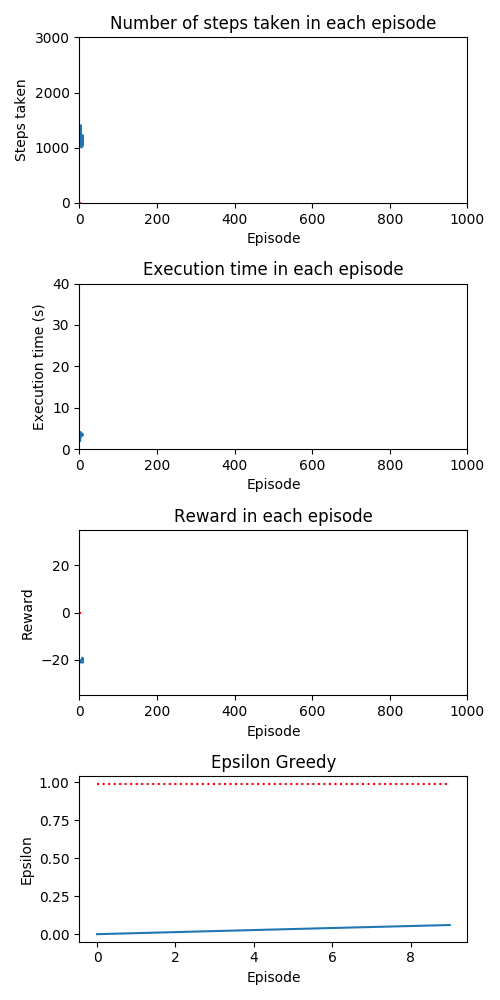
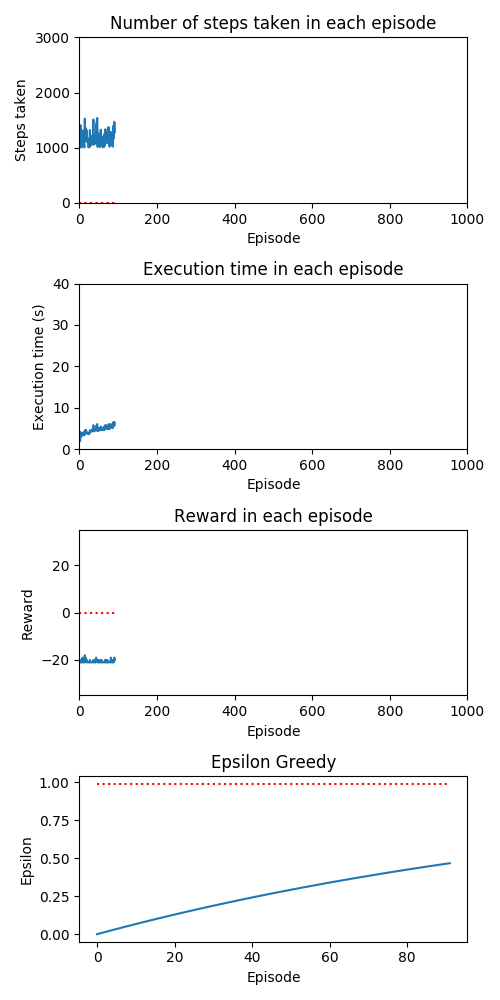
increase batch size

diff --git a/DQN/Network.py b/DQN/Network.py
@@ -22,7 +22,7 @@ class neural_net():
 
         # hidden layer takes a pre-processed frame as input, and has 200 units
         #  fibre channel layer 1
-        self.model.add(Dense(units=40,input_dim=self.obs_space, activation='relu', kernel_initializer='glorot_uniform'))
+        self.model.add(Dense(units=200,input_dim=self.obs_space, activation='relu', kernel_initializer='glorot_uniform'))
 
         # output layer
         self.model.add(Dense(units=self.action_space, activation='sigmoid', kernel_initializer='RandomNormal'))

diff --git a/run_main.py b/run_main.py
@@ -125,6 +125,9 @@ for episode in range(1000):
         next_observation = processor.Preprocessing(next_observation, False)
         learner.transitions.append((observation, action, reward, next_observation, done))
 
+        # if episode > 1:
+        #     learner.memory_replay()
+
         step += 1
         episode_rewards += reward
 

diff --git a/DQN/Brain.py b/DQN/Brain.py
@@ -3,11 +3,11 @@ import random
 from collections import deque
 
 
-MAX_MEMORY_LENGTH = 10000
+MAX_MEMORY_LENGTH = 1000000
 LEARNING_RATE = 0.01
 REWARD_DECAY = 0.9
 START_TRAINING = 5000
-batch_size=256
+batch_size=1000
 
 class Learning():
 
